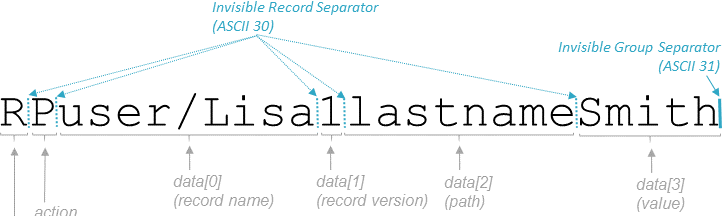
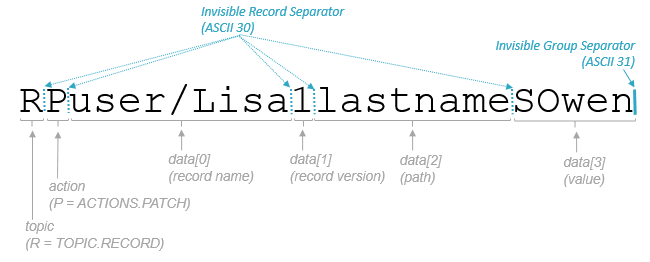
Fixed error in message structure example

diff --git a/htdocs/tutorials/message-structure.html b/htdocs/tutorials/message-structure.html
@@ -133,14 +133,14 @@
 </div>
 
 <p>| and + are used in these examples as placeholders, messages are actually separated by invisible Ascii control characters (&quot;record separator&quot; (30) and &quot;group seperator&quot; (31))</p><p>Every message has a topic (e.g. RECORD, EVENT, AUTH etc.) and an action ( CREATE, DELETE, SUBSCRIBE etc.). For a full list of available topics and actions please see <a href="../docs/constants.html">docs/constants.html</a>.</p><h3>Example</h3><p>Here&#39;s an example: creating or reading a record <code>user/Lisa</code></p><pre><code>userLisa <span class="token operator" >=</span> ds<span class="token punctuation" >.</span>record<span class="token punctuation" >.</span><span class="token function" >getRecord<span class="token punctuation" >(</span></span> <span class="token string" >'user/Lisa'</span> <span class="token punctuation" >)</span><span class="token punctuation" >;</span>
-</code></pre><p>would prompt the client to send this message to the server</p><p><img src="../assets/images/message-structure-record-create.png" /></p><p>Messages always start with <code>topic</code> and <code>action</code>, but can contain an arbitrary amount of data fields afterwards.</p><p>Setting the value of a path within the record for example</p><pre><code>userLisa<span class="token punctuation" >.</span><span class="token keyword" >set</span><span class="token punctuation" >(</span> <span class="token string" >'lastname'</span><span class="token punctuation" >,</span> <span class="token string" >'Smith'</span> <span class="token punctuation" >)</span><span class="token punctuation" >;</span>
+</code></pre><p>would prompt the client to send this message to the server</p><p><img src="../assets/images/message-structure-record-create.png" /></p><p>Messages always start with <code>topic</code> and <code>action</code>, but can contain an arbitrary amount of data fields afterwards.</p><p>Setting the value of a path within the record for example</p><pre><code>userLisa<span class="token punctuation" >.</span><span class="token keyword" >set</span><span class="token punctuation" >(</span> <span class="token string" >'lastname'</span><span class="token punctuation" >,</span> <span class="token string" >'Owen'</span> <span class="token punctuation" >)</span><span class="token punctuation" >;</span>
 </code></pre><p>would result in this outgoing message</p><p><img src="../assets/images/message-structure-record-patch.png" width="650"/></p><p>Please note the additional S before <code>Owen</code>. This indicates that the remaining part of the message should be treated as a string. Please find a list of available types <a href="../docs/constants.html#Data Types">here</a>.</p><p>Both client and server use a message-parser to validate these messages and to convert them into objects looking like this:</p><pre><code><span class="token punctuation" >{</span>
     raw<span class="token punctuation" >:</span> <span class="token string" >'R\u001fP\u001fuser/Lisa\u001f1\u001flastname\u001fSOwen'</span><span class="token punctuation" >,</span>
     topic<span class="token punctuation" >:</span> <span class="token string" >'R'</span><span class="token punctuation" >,</span>
     action<span class="token punctuation" >:</span> <span class="token string" >'P'</span><span class="token punctuation" >,</span>
-    data<span class="token punctuation" >:</span> <span class="token punctuation" >[</span> <span class="token string" >'user/Lisa'</span><span class="token punctuation" >,</span> <span class="token string" >'1'</span><span class="token punctuation" >,</span> <span class="token string" >'lastname'</span><span class="token punctuation" >,</span> <span class="token string" >'SSmith'</span> <span class="token punctuation" >]</span>
+    data<span class="token punctuation" >:</span> <span class="token punctuation" >[</span> <span class="token string" >'user/Lisa'</span><span class="token punctuation" >,</span> <span class="token string" >'1'</span><span class="token punctuation" >,</span> <span class="token string" >'lastname'</span><span class="token punctuation" >,</span> <span class="token string" >'SOwen'</span> <span class="token punctuation" >]</span>
 <span class="token punctuation" >}</span>
-</code></pre>
+</code></pre><p>The actual conversion of <code>SOwen</code> into <code>Owen</code> happens further down the line by the part of the application that handles this specific message and knows which fields contain typed data.</p>
 
 			</div>
 		</div>

diff --git a/pages/tutorials/message-structure.md b/pages/tutorials/message-structure.md
@@ -28,7 +28,7 @@ Messages always start with `topic` and `action`, but can contain an arbitrary am
 
 Setting the value of a path within the record for example
 
-	userLisa.set( 'lastname', 'Smith' );
+	userLisa.set( 'lastname', 'Owen' );
 
 would result in this outgoing message
 
@@ -42,5 +42,7 @@ Both client and server use a message-parser to validate these messages and to co
 		raw: 'R\u001fP\u001fuser/Lisa\u001f1\u001flastname\u001fSOwen',
 		topic: 'R',
 		action: 'P',
-		data: [ 'user/Lisa', '1', 'lastname', 'SSmith' ]
+		data: [ 'user/Lisa', '1', 'lastname', 'SOwen' ]
 	}
+
+The actual conversion of `SOwen` into `Owen` happens further down the line by the part of the application that handles this specific message and knows which fields contain typed data.
